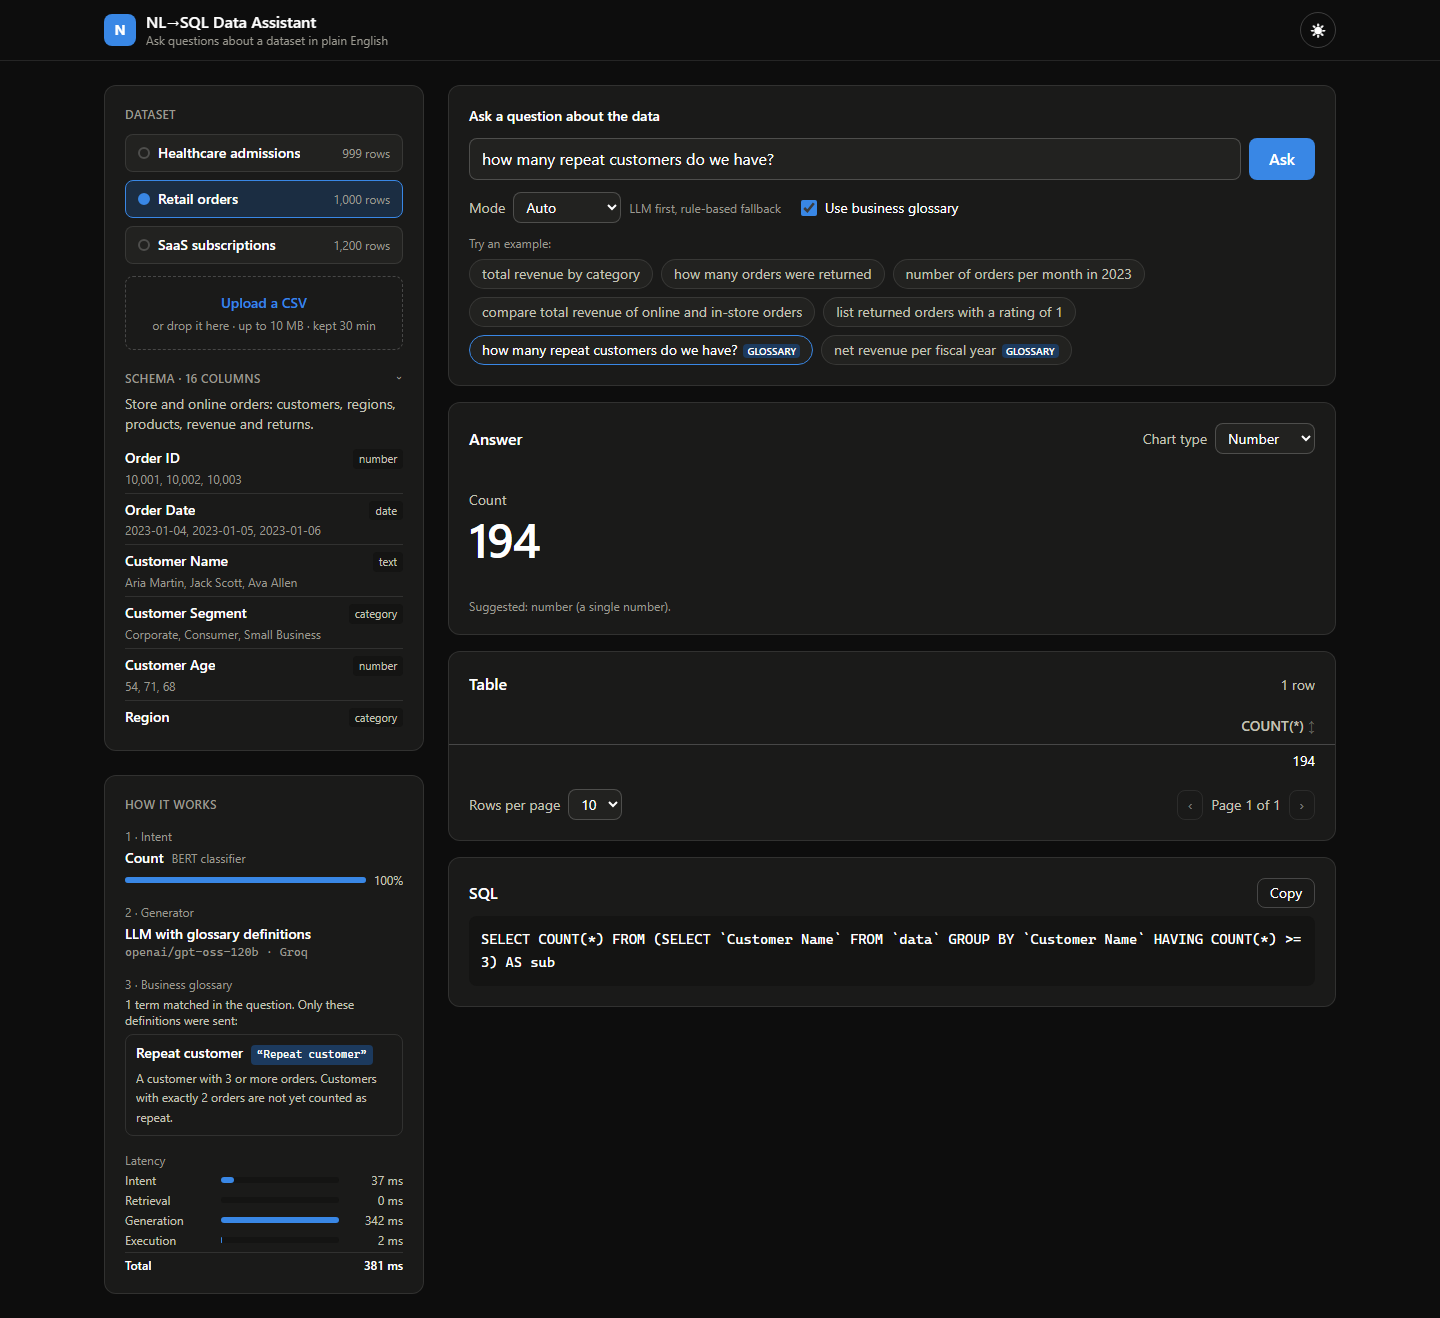
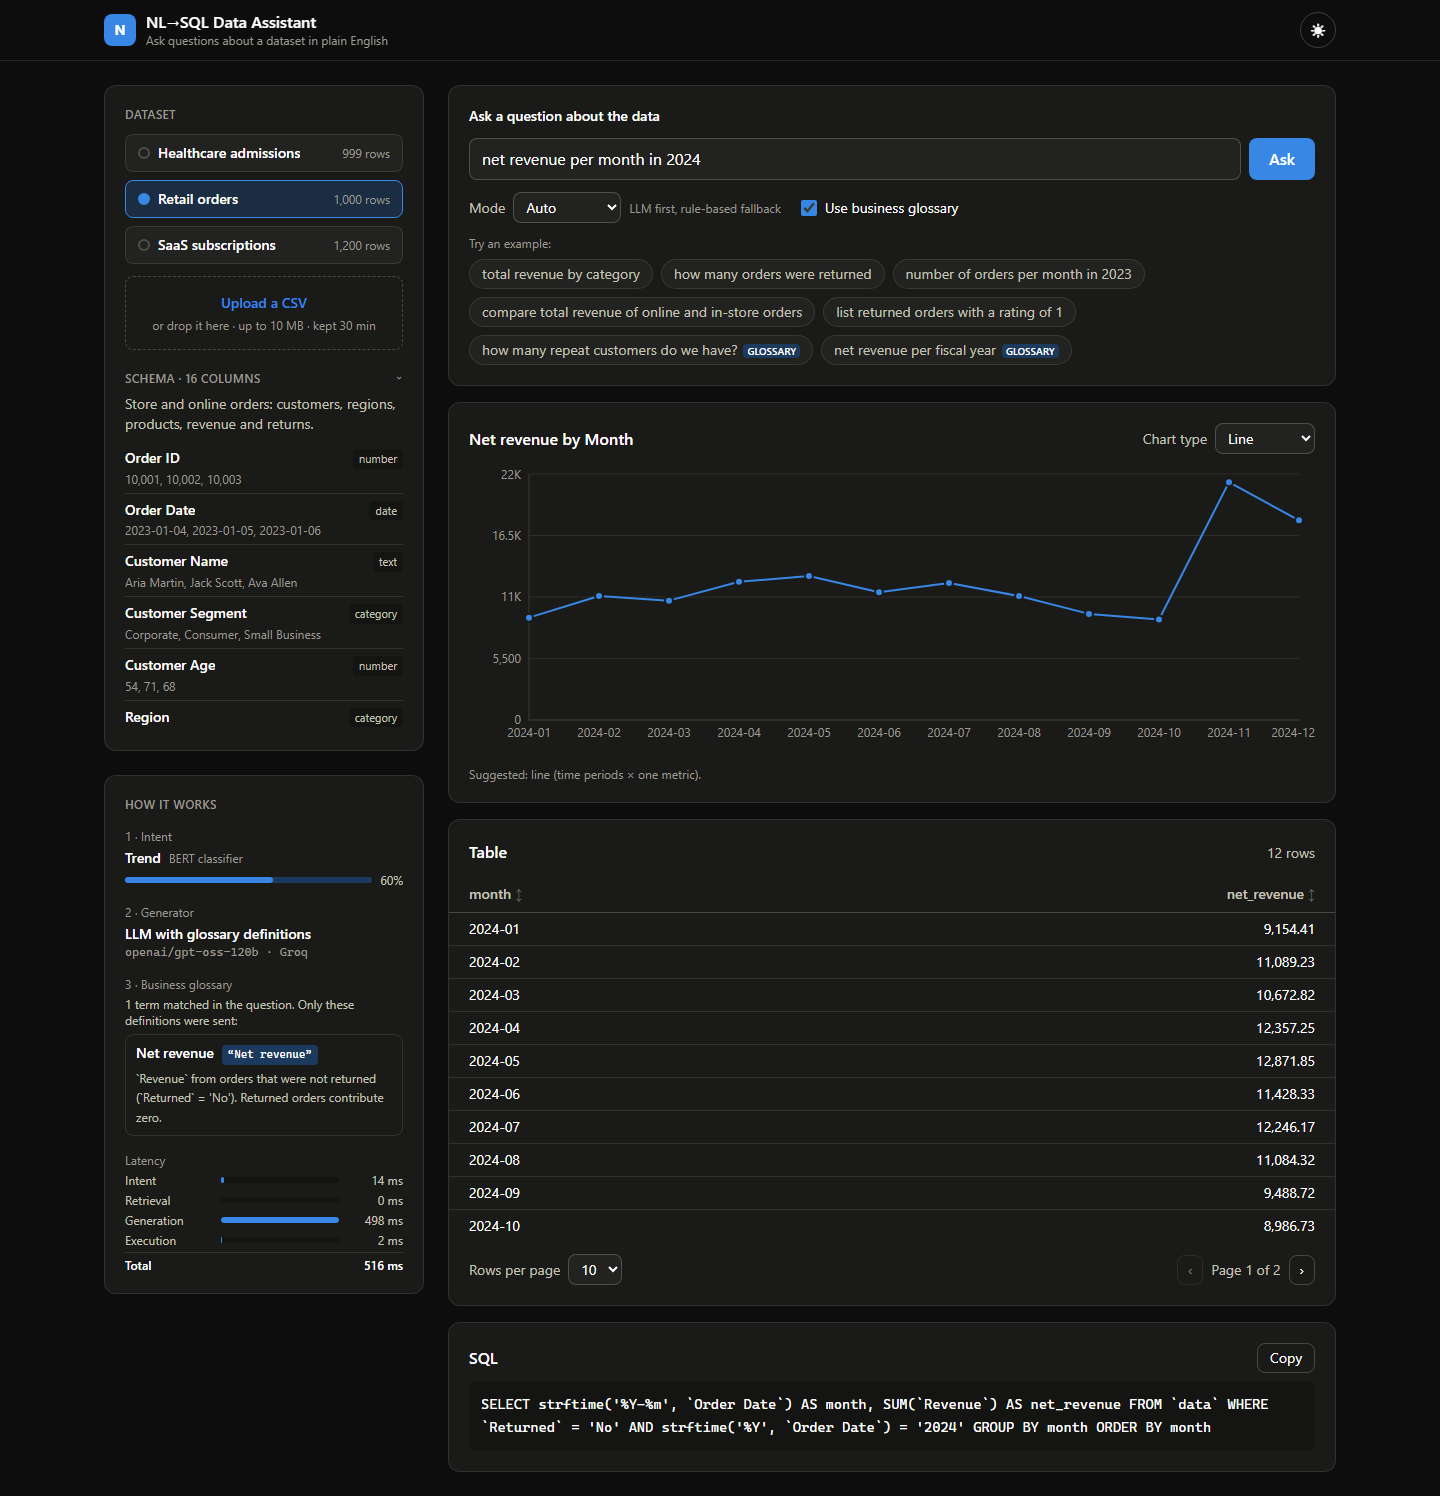
README screenshots: a pie chart (zero-shot) and a line chart (glossary)
- Light: "how many admissions by admission type" on the healthcare sample, auto-chosen
  pie (Elective 320, Emergency 346, Urgent 333), no glossary term, zero-shot prompt
- Dark: "net revenue per month in 2024" on the retail sample, auto-chosen line chart,
  Net revenue definition matched and applied (non-returned orders)
- Both answers checked against pandas; captions and alt text updated

diff --git a/README.md b/README.md
@@ -31,12 +31,12 @@ Try the sample datasets, or upload a CSV of your own (up to 5 MB). Uploads stay 
     <td align="center"><sub>Dark: "what is our ARR?", glossary term matched</sub></td>
   </tr>
   <tr>
-    <td><img src="docs/screenshots/desktop-light.png" alt="Light mode, healthcare dataset: average billing amount by insurance provider as a bar chart. No glossary term matched, so the prompt was zero-shot" /></td>
-    <td><img src="docs/screenshots/desktop-dark.png" alt="Dark mode, retail dataset: how many repeat customers, answered with the Repeat customer definition and shown as a number card" /></td>
+    <td><img src="docs/screenshots/desktop-light.png" alt="Light mode, healthcare dataset: how many admissions by admission type, automatically shown as a pie chart (Elective 320, Emergency 346, Urgent 333). No glossary term matched, so the prompt was zero-shot" /></td>
+    <td><img src="docs/screenshots/desktop-dark.png" alt="Dark mode, retail dataset: net revenue per month in 2024, automatically shown as a line chart with a November peak. How it works shows the matched term Net revenue and its definition (non-returned orders only)" /></td>
   </tr>
   <tr>
-    <td align="center"><sub>Light: no glossary term, zero-shot prompt</sub></td>
-    <td align="center"><sub>Dark: "repeat customers", glossary term matched</sub></td>
+    <td align="center"><sub>Light: "how many admissions by admission type", no glossary term (zero-shot), pie chart</sub></td>
+    <td align="center"><sub>Dark: "net revenue per month in 2024", glossary term matched, line chart</sub></td>
   </tr>
 </table>
 
